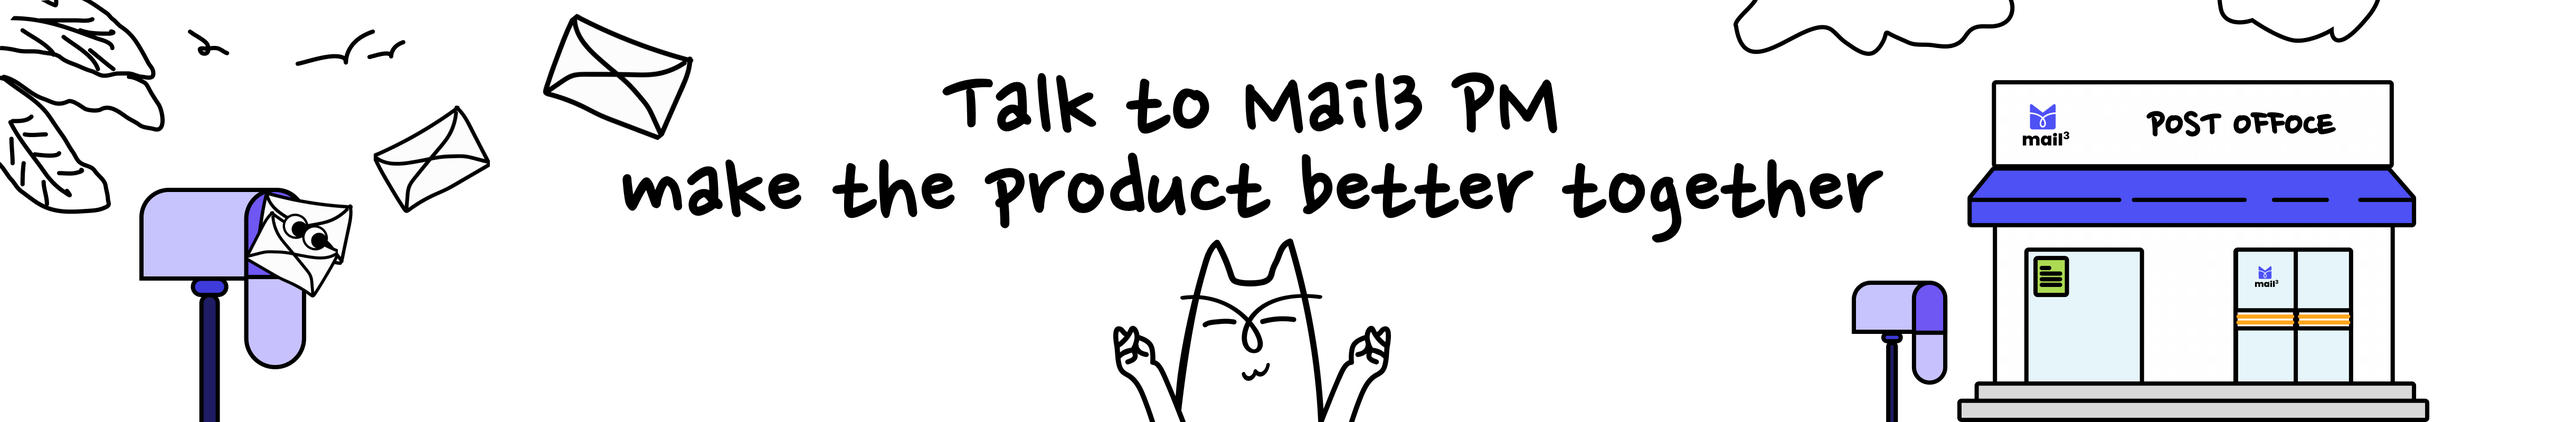
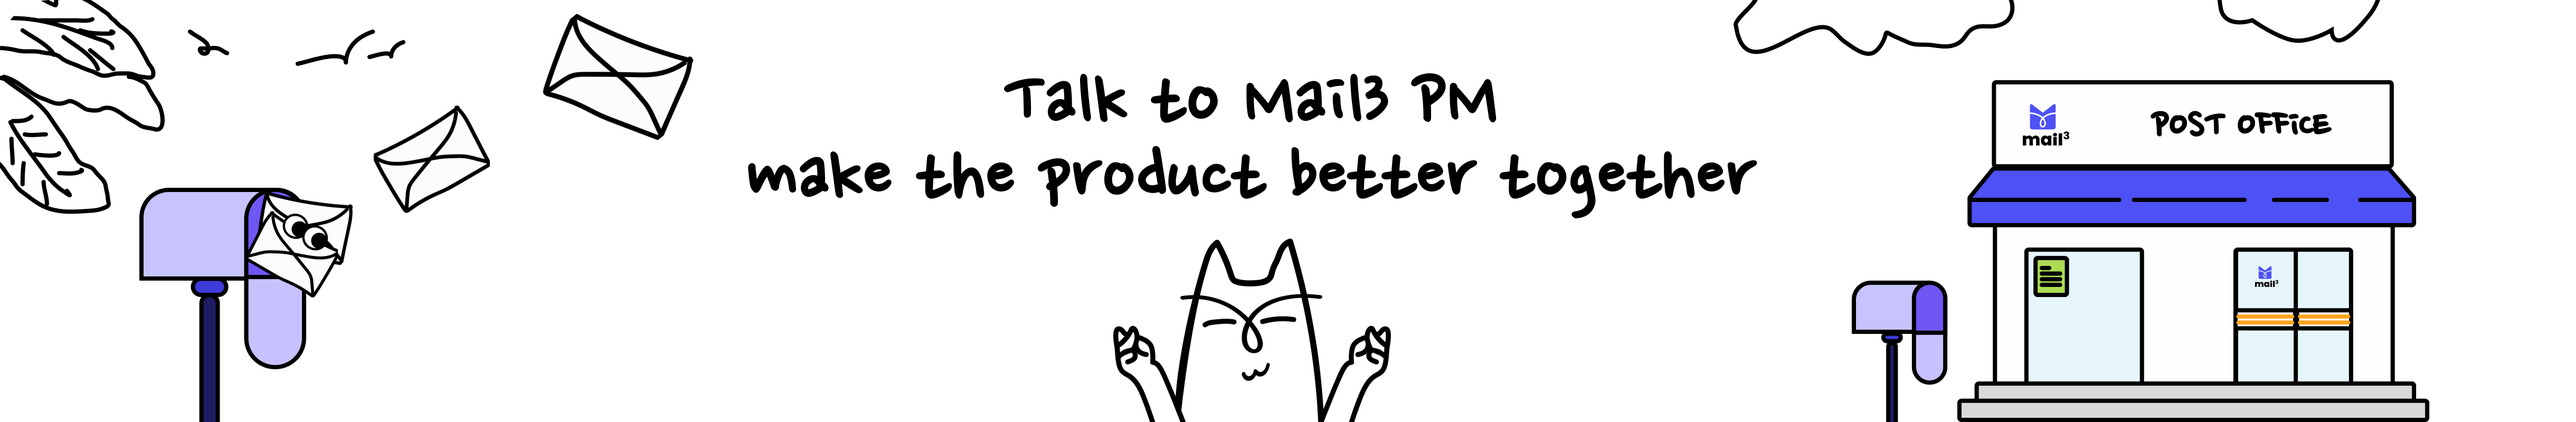
feat: add `let's talk` image and animation

Changed region(s): [[0.218, 0.3438, 0.7475, 0.5625], [0.3426, 0.1562, 0.623, 0.3125], [0.8098, 0.25, 0.9033, 0.3125]]

diff --git a/apps/app/components/ProductRecommendationsBanner/index.tsx b/apps/app/components/ProductRecommendationsBanner/index.tsx
@@ -7,6 +7,7 @@ import { useAtom } from 'jotai'
 import { TrackEvent, useTrackClick } from 'hooks'
 import ProductRecommendationsBannerImage from '../../assets/product_recommendations_banner/desktop.png'
 import ProductRecommendationsBannerMobileImage from '../../assets/product_recommendations_banner/mobile.png'
+import LetTalkImage from "../../assets/product_recommendations_banner/let's_talk.png"
 import {
   PRODUCT_RECOMMENDATIONS_ADDRESS,
   PRODUCT_RECOMMENDATIONS_SUBJECT,
@@ -91,6 +92,26 @@ export const ProductRecommendationsBanner: React.FC = () => {
             pointerEvents="none"
           />
         </AspectRatio>
+        <Image
+          src={LetTalkImage}
+          alt="let's talk"
+          position="absolute"
+          top="54%"
+          right="38%"
+          w={{ base: '20%', md: '10%' }}
+          css={`
+            @keyframes DriftbottleBannerButtonAnimation {
+              0%,
+              100% {
+                transform: scale(1);
+              }
+              50% {
+                transform: scale(1.05);
+              }
+            }
+            animation: DriftbottleBannerButtonAnimation 2s infinite linear;
+          `}
+        />
       </Link>
     </Box>
   )
